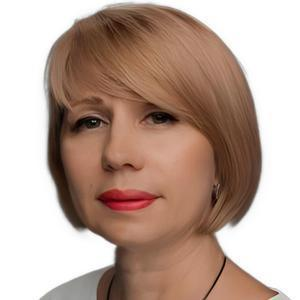
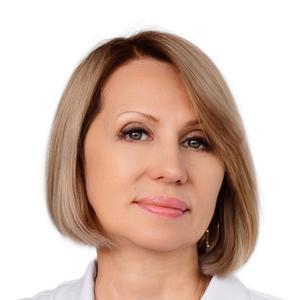
врачи 140926

diff --git a/public/data/data.js b/public/data/data.js
@@ -84,6 +84,7 @@ import muhamedzhanova from '@/public/img/main/doctors/muhamedzhanova.jpg';
 import panferova from '@/public/img/main/doctors/panferova.png';
 import bocharova from '@/public/img/main/doctors/bocharova.jpg';
 import doctorNoFon from '@/public/img/main/doctors/doctorNoFon.png';
+import pokul from '@/public/img/main/doctors/pokul.jpg';
 
 const doctors = [
   {
@@ -294,6 +295,21 @@ const doctors = [
     foto: bocharova,
     link: 'doctors/velikjanina',
   },
+  {
+    id: id++,
+    fio: 'Покуль Лилиана Викторовна',
+    spec: 'акушер-гинеколог, онколог',
+    workYear: 'стаж 33 года',
+    foto: pokul,
+    link: 'doctors/velikjanina',
+  },
+  {
+    id: id++,
+    fio: 'Котова Татьяна Николаевна',
+    spec: 'психолог',
+    workYear: 'стаж 19 лет',
+    foto: kotova,
+  },
 
   // {
   //   id: id++,
@@ -326,13 +342,7 @@ const doctors = [
   //   workYear: 'стаж 31 год',
   //   foto: kolesnikov,
   // },
-  // {
-  //   id: id++,
-  //   fio: 'Котова Татьяна Николаевна',
-  //   spec: 'психолог',
-  //   workYear: 'стаж 19 лет',
-  //   foto: kotova,
-  // },
+
   // {
   //   id: id++,
   //   fio: "Киракосьян Марина Робертовна",
